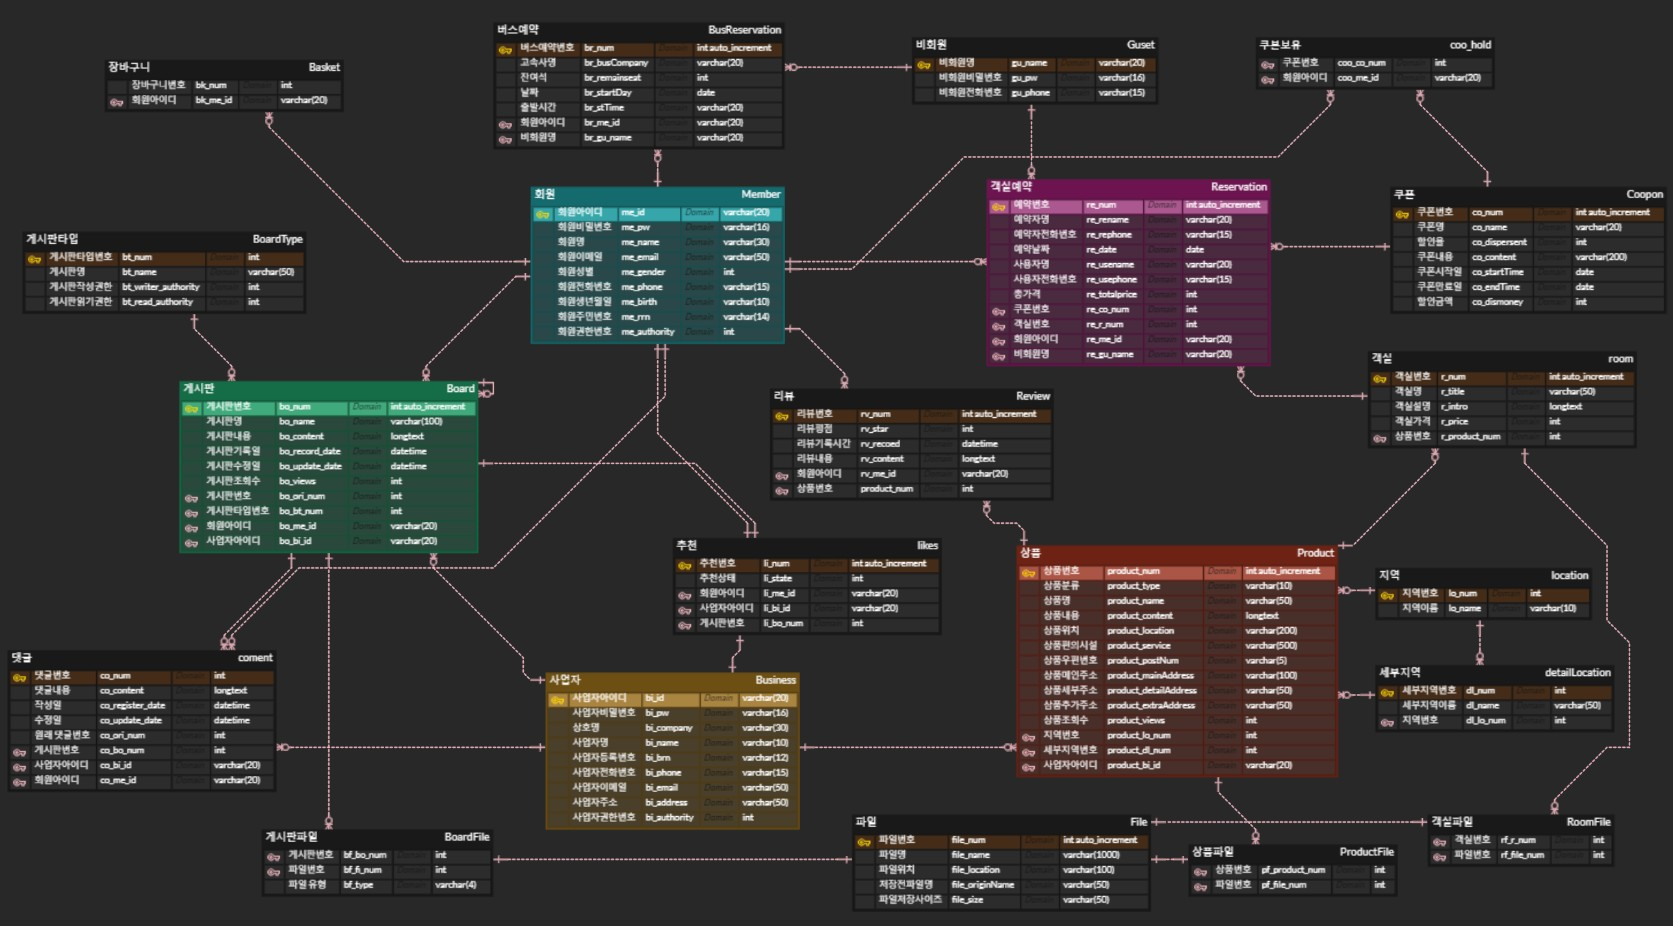
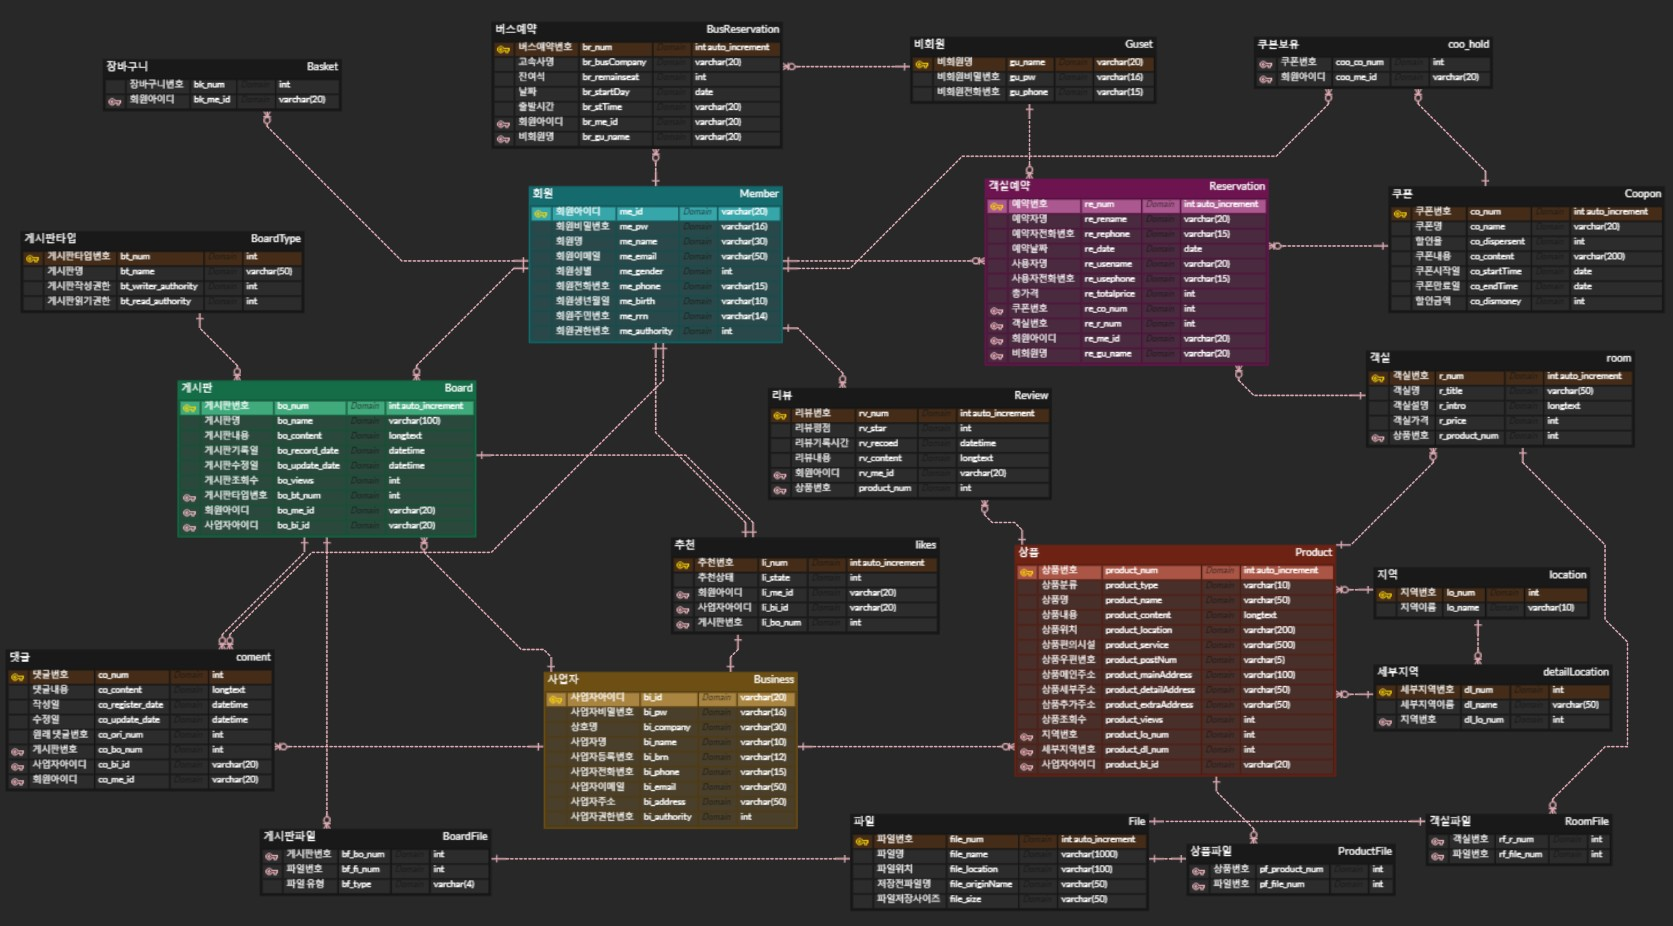
board db수정

diff --git a/src/main/java/kr/kh/project/vo/BoardVO.java b/src/main/java/kr/kh/project/vo/BoardVO.java
@@ -15,7 +15,6 @@ public class BoardVO {
 	int bo_views;
 	int bo_up;
 	int bo_down;
-	int bo_ori_num;
 	String bo_me_id;
 	String bo_bi_id;
 	int bo_bt_num;
